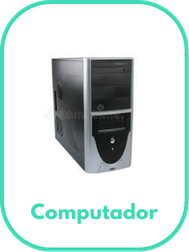
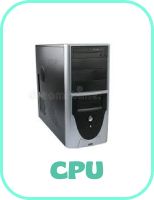
design oficial das cartas e lóica do jogo

Changed region(s): [[0.2078, 0.21, 0.7273, 0.75], [0.0, 0.0, 1.0, 1.0], [0.1558, 0.78, 0.8312, 0.9]]

diff --git a/frontend/pages/jogo.html b/frontend/pages/jogo.html
@@ -36,73 +36,7 @@
             </ul>
         </div>
         <div class="tabuleiro">
-            <div class="grid-jogo">
-                <div class="card">
-                    <div class="face front"></div>
-                    <div class="face back"></div>
-                </div>
-                <div class="card">
-                    <div class="face front"></div>
-                    <div class="face back"></div>
-                </div>
-                <div class="card">
-                    <div class="face front"></div>
-                    <div class="face back"></div>
-                </div>
-                <div class="card">
-                    <div class="face front"></div>
-                    <div class="face back"></div>
-                </div>
-                <div class="card">
-                    <div class="face front"></div>
-                    <div class="face back"></div>
-                </div>
-                <div class="card">
-                    <div class="face front"></div>
-                    <div class="face back"></div>
-                </div>
-                <div class="card">
-                    <div class="face front"></div>
-                    <div class="face back"></div>
-                </div>
-                <div class="card">
-                    <div class="face front"></div>
-                    <div class="face back"></div>
-                </div>
-                <div class="card">
-                    <div class="face front"></div>
-                    <div class="face back"></div>
-                </div>
-                <div class="card">
-                    <div class="face front"></div>
-                    <div class="face back"></div>
-                </div>
-                <div class="card">
-                    <div class="face front"></div>
-                    <div class="face back"></div>
-                </div>
-                <div class="card">
-                    <div class="face front"></div>
-                    <div class="face back"></div>
-                </div>
-                <div class="card">
-                    <div class="face front"></div>
-                    <div class="face back"></div>
-                </div>
-                <div class="card">
-                    <div class="face front"></div>
-                    <div class="face back"></div>
-                </div>
-                <div class="card">
-                    <div class="face front"></div>
-                    <div class="face back"></div>
-                </div>
-                <div class="card">
-                    <div class="face front"></div>
-                    <div class="face back"></div>
-                </div>
-            </div>
-            </div>
+            <div class="grid-jogo"></div>
         </div>
         <div class="timer">
             <span>Tempo</span>
@@ -121,10 +55,10 @@
         </div>
     </button>
     <div>
-        <script src="../scripts/jogo.js"></script>
         <script src="../scripts/dark-mode.js" ></script>
         <script src="../scripts/perfil.js"></script>
         <script src="../scripts/tema.js"></script>
+        <script type="module" src="../scripts/jogo.js"></script>
     </div>
 </body>
 </html>

diff --git a/backend/src/services/GameService.js b/backend/src/services/GameService.js
@@ -1,7 +1,7 @@
 // Implementa a classe responsável pela lógica do jogo
 
 import { TEMAS } from '../mocks/temas.mock.js';
-import { NIVEIS } from '../models/Configuracoes.js';
+// import { NIVEIS } from '../models/Configuracoes.js';
 
 export class GameService {
     /**
@@ -9,26 +9,27 @@ export class GameService {
      * @param {number} temaId 
      * @param {number} nivelId 
      */
-    static gerarTabuleiro(temaId, nivelId) {
+    static gerarTabuleiro(temaId /*nivelId*/) {
         // Busca o tema pelo id, retorna undefined se não encontrado
         const tema = TEMAS.find(t => t.id === temaId);
 
         // Converte NIVEIS em um array com os valores do objeto e busca o primeiro nível cujo id 
         // seja igual ao nivelId, retorna undefined caso não encontrado
-        const nivel = Object.values(NIVEIS).find(n => n.id === nivelId);
+        // const nivel = Object.values(NIVEIS).find(n => n.id === nivelId);
 
         // Se o tema ou o nivel não foram encontrados (undefined), lance um erro
-        if (!tema || !nivel) {
-            throw new Error("Tema ou Nível inválido.");
+        if (!tema /*|| !nivel*/) {
+            throw new Error("Tema inválido.");
         }
 
         // 1. Seleciona a quantidade de cartas necessária para o nível (ex: 4 pares = 4 cartas)
         // O slice copia uma parte de um array sem alterar o original, 
         // exemplo: pegue as cartas do índice 0 até nivel.pares (sem incluir o final)
-        const cartasSelecionadas = tema.cartas.slice(0, nivel.pares);
+        // const cartasSelecionadas = tema.cartas.slice(0, nivel.pares);
 
         // 2. Duplica as cartas para formar pares
-        let tabuleiro = [...cartasSelecionadas, ...cartasSelecionadas];
+        // let tabuleiro = [...cartasSelecionadas, ...cartasSelecionadas];
+        let tabuleiro = [...tema.cartas, ...tema.cartas];
 
         // 3. Embaralhamento com o algoritmo Fisher-Yates
         // Percorre o array de trás para frente

diff --git a/frontend/scripts/jogo.js b/frontend/scripts/jogo.js
@@ -1,0 +1,58 @@
+import { GameService } from "../../backend/src/services/GameService";
+
+const grid = document.querySelector('.grid-jogo')
+
+// const info = [
+//     'Arquivos',
+//     'Cadeira',
+//     'Chrome',
+//     'Configurações',
+//     'CPU',
+//     'Fone',
+//     'Impressora',
+//     'Monitor',
+//     'Mouse',
+//     'Roteador',
+//     'Teclado',
+//     'Webcam',
+// ];
+
+
+// cria as um elemento que recebe como parâmetro o tipo de
+// elemento html e adiciona um classname que tambem foi recebido 
+// como parametro
+const createElement = (tag, className) => {
+    const element = document.createElement(tag);
+    element.className = className;
+
+    return element;
+}
+
+// chama a função cria elemento e manda as informações que faltam
+const criaCarta = (item) => {
+    const card = createElement('div', 'card');
+    const front = createElement('div', 'face front');
+    const back = createElement('div', 'face back');
+
+    front.style.backgroundImage = `url('../assets/temas/informatica/${item}.png')`;
+
+    card.appendChild(front);
+    card.appendChild(back);
+
+    return card
+}
+
+
+const loadGame = (temaId) => {
+    const duplicateInfo = [...info, ...info];
+
+    const tabuleiro = GameService.gerarTabuleiro(temaId);
+
+    tabuleiro.forEach((item) => {
+        const card = criaCarta(item);
+        grid.appendChild(card);
+    })
+}
+
+
+loadGame(2);

diff --git a/frontend/styles/jogo.css b/frontend/styles/jogo.css
@@ -113,8 +113,7 @@ body.dark .menu-dropdown a:hover {
 }
 .grid-jogo{
     display: grid;
-    /* dificuldade 1 = 4 dificuldade 2 = 4    dificuldade 3 = 24 cartas 6, 1fr*/
-    grid-template-columns: repeat(4, 1fr);
+    grid-template-columns: repeat(6, 1fr);
     place-content: center;
     gap: 20px;
     width: 100%;
@@ -124,34 +123,30 @@ body.dark .menu-dropdown a:hover {
     position: relative;
     justify-self: center;
     align-self: center;
-    width: 154px;
-    height: 200px;
-    transition: all 400ms;
+    width: 139px;
+    height: 180px;
+    transition: all 300ms ease;
+    transform-style: preserve-3d;
 }
+
 .face{
     width: 100%;
     height: 100%;
     position: absolute;
+    background-size: cover;
+    background-position: center;
 }
 .front{
-    background-image: url(../assets/temas/cornelio/Carnaval.png);
-    background-size: cover;
-    background-position: center;
-    width: auto;
-    height: 250px;
+    transform: rotateY(180deg) ;
 }
 .back{
-    background-image: url(../assets/images/3.svg);
-    background-size: cover;
-    background-position: center;
-    background-repeat: no-repeat;
+    background-image: url(../assets/images/Frame\ 3.png);
+    backface-visibility: hidden;
 }
 
-.back:hover{
+.card:hover{
     transform: rotateY(180deg);
 }
-
-
 
 
 .timer{
